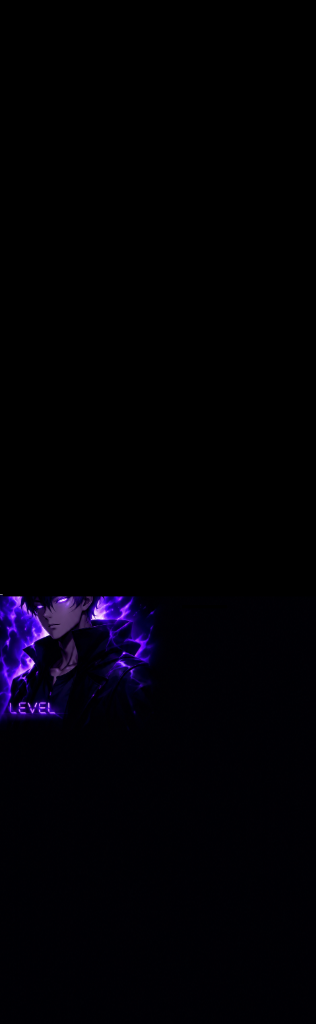
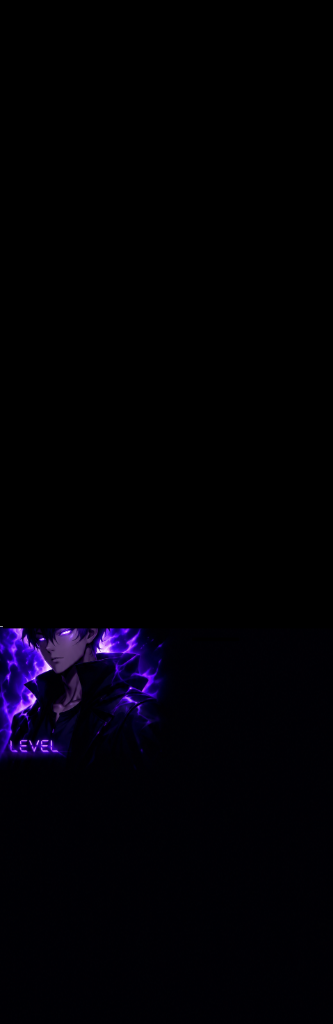
Sidebar bg update & remove small hunter photo, new Jarvis AI bg, Level 26 0.9cm shift & dark blue circular bar

Changed region(s): [[0.0, 0.5625, 0.5127, 0.75]]

diff --git a/frontend/public/sw.js b/frontend/public/sw.js
@@ -1,1 +1,1 @@
-if(!self.define){let e,a={};const c=(c,s)=>(c=new URL(c+".js",s).href,a[c]||new Promise(a=>{if("document"in self){const e=document.createElement("script");e.src=c,e.onload=a,document.head.appendChild(e)}else e=c,importScripts(c),a()}).then(()=>{let e=a[c];if(!e)throw new Error(`Module ${c} didn’t register its module`);return e}));self.define=(s,i)=>{const n=e||("document"in self?document.currentScript.src:"")||location.href;if(a[n])return;let t={};const r=e=>c(e,n),d={module:{uri:n},exports:t,require:r};a[n]=Promise.all(s.map(e=>d[e]||r(e))).then(e=>(i(...e),t))}}define(["./workbox-4754cb34"],function(e){"use strict";importScripts(),self.skipWaiting(),e.clientsClaim(),e.precacheAndRoute([{url:"/_next/app-build-manifest.json",revision:"79407e35d70fcbe2766703061dbdac23"},{url:"/_next/static/chunks/117-6eaefb15f41efda2.js",revision:"zPxRcZH9vEHwKE0aQicTF"},{url:"/_next/static/chunks/161-404ec8659131fbe1.js",revision:"zPxRcZH9vEHwKE0aQicTF"},{url:"/_next/static/chunks/222-80c941b602c6c767.js",revision:"zPxRcZH9vEHwKE0aQicTF"},{url:"/_next/static/chunks/259-1b7b7c8a627955e5.js",revision:"zPxRcZH9vEHwKE0aQicTF"},{url:"/_next/static/chunks/556-aa420836837e218e.js",revision:"zPxRcZH9vEHwKE0aQicTF"},{url:"/_next/static/chunks/590-50b0998170771c32.js",revision:"zPxRcZH9vEHwKE0aQicTF"},{url:"/_next/static/chunks/609-67dad4ef162ab78f.js",revision:"zPxRcZH9vEHwKE0aQicTF"},{url:"/_next/static/chunks/685-00dc3b1ddec12150.js",revision:"zPxRcZH9vEHwKE0aQicTF"},{url:"/_next/static/chunks/69806262-f3310f404136445d.js",revision:"zPxRcZH9vEHwKE0aQicTF"},{url:"/_next/static/chunks/847-bcd5b17004309540.js",revision:"zPxRcZH9vEHwKE0aQicTF"},{url:"/_next/static/chunks/922-f6b7f1c74a3700c3.js",revision:"zPxRcZH9vEHwKE0aQicTF"},{url:"/_next/static/chunks/95-37978faa49e2d0eb.js",revision:"zPxRcZH9vEHwKE0aQicTF"},{url:"/_next/static/chunks/972-a5fd2ff66a5a41f1.js",revision:"zPxRcZH9vEHwKE0aQicTF"},{url:"/_next/static/chunks/app/(app)/achievements/page-dda38d3cd8482c57.js",revision:"zPxRcZH9vEHwKE0aQicTF"},{url:"/_next/static/chunks/app/(app)/bosses/page-9d928c80a2c79d35.js",revision:"zPxRcZH9vEHwKE0aQicTF"},{url:"/_next/static/chunks/app/(app)/calendar/page-101ab7f6c62cabb0.js",revision:"zPxRcZH9vEHwKE0aQicTF"},{url:"/_next/static/chunks/app/(app)/character/page-dfc11f578a29d1d0.js",revision:"zPxRcZH9vEHwKE0aQicTF"},{url:"/_next/static/chunks/app/(app)/dashboard/page-4d445d5cb618b271.js",revision:"zPxRcZH9vEHwKE0aQicTF"},{url:"/_next/static/chunks/app/(app)/inventory/page-832cbb0276802e4b.js",revision:"zPxRcZH9vEHwKE0aQicTF"},{url:"/_next/static/chunks/app/(app)/layout-4916cc8b0835f1ed.js",revision:"zPxRcZH9vEHwKE0aQicTF"},{url:"/_next/static/chunks/app/(app)/leaderboard/page-5dc13f6b901dbad3.js",revision:"zPxRcZH9vEHwKE0aQicTF"},{url:"/_next/static/chunks/app/(app)/quests/page-a079af3c097b3c39.js",revision:"zPxRcZH9vEHwKE0aQicTF"},{url:"/_next/static/chunks/app/(app)/settings/page-16df79275a90fe75.js",revision:"zPxRcZH9vEHwKE0aQicTF"},{url:"/_next/static/chunks/app/(app)/social/page-e22081380a73c9b9.js",revision:"zPxRcZH9vEHwKE0aQicTF"},{url:"/_next/static/chunks/app/(app)/statistics/page-f1d5fada93bd8958.js",revision:"zPxRcZH9vEHwKE0aQicTF"},{url:"/_next/static/chunks/app/(app)/story/page-7c3b57a3b38ef37f.js",revision:"zPxRcZH9vEHwKE0aQicTF"},{url:"/_next/static/chunks/app/(auth)/onboarding/page-e2587b5847bffce2.js",revision:"zPxRcZH9vEHwKE0aQicTF"},{url:"/_next/static/chunks/app/(auth)/sign-in/page-6834d9283c96885c.js",revision:"zPxRcZH9vEHwKE0aQicTF"},{url:"/_next/static/chunks/app/_not-found/page-5ef3c9f8d8d1fe9b.js",revision:"zPxRcZH9vEHwKE0aQicTF"},{url:"/_next/static/chunks/app/error-6a6e6797ee8d3c98.js",revision:"zPxRcZH9vEHwKE0aQicTF"},{url:"/_next/static/chunks/app/layout-12bd3d1a2fa5866b.js",revision:"zPxRcZH9vEHwKE0aQicTF"},{url:"/_next/static/chunks/app/loading-cc8d0ea91e4ead9b.js",revision:"zPxRcZH9vEHwKE0aQicTF"},{url:"/_next/static/chunks/app/not-found-98e5678f1a19b8b1.js",revision:"zPxRcZH9vEHwKE0aQicTF"},{url:"/_next/static/chunks/app/page-87e1eb2ae3170d7a.js",revision:"zPxRcZH9vEHwKE0aQicTF"},{url:"/_next/static/chunks/fd9d1056-d5767489a2977be3.js",revision:"zPxRcZH9vEHwKE0aQicTF"},{url:"/_next/static/chunks/framework-00a8ba1a63cfdc9e.js",revision:"zPxRcZH9vEHwKE0aQicTF"},{url:"/_next/static/chunks/main-8dab85b19320e72d.js",revision:"zPxRcZH9vEHwKE0aQicTF"},{url:"/_next/static/chunks/main-app-ee85dcf41e332b4b.js",revision:"zPxRcZH9vEHwKE0aQicTF"},{url:"/_next/static/chunks/pages/_app-15e2daefa259f0b5.js",revision:"zPxRcZH9vEHwKE0aQicTF"},{url:"/_next/static/chunks/pages/_error-28b803cb2479b966.js",revision:"zPxRcZH9vEHwKE0aQicTF"},{url:"/_next/static/chunks/polyfills-42372ed130431b0a.js",revision:"846118c33b2c0e922d7b3a7676f81f6f"},{url:"/_next/static/chunks/webpack-9e3ef463ba7a7de9.js",revision:"zPxRcZH9vEHwKE0aQicTF"},{url:"/_next/static/css/444fbbf96e36425c.css",revision:"444fbbf96e36425c"},{url:"/_next/static/css/6b91e6bb0ef020a0.css",revision:"6b91e6bb0ef020a0"},{url:"/_next/static/media/19cfc7226ec3afaa-s.woff2",revision:"9dda5cfc9a46f256d0e131bb535e46f8"},{url:"/_next/static/media/21350d82a1f187e9-s.woff2",revision:"4e2553027f1d60eff32898367dd4d541"},{url:"/_next/static/media/36966cca54120369-s.p.woff2",revision:"25ea4a783c12103f175f5b157b7d96aa"},{url:"/_next/static/media/558ca1a6aa3cb55e-s.p.woff2",revision:"570751c5f8b418972c1976160ba6ed85"},{url:"/_next/static/media/64d784ea54a4acde-s.woff2",revision:"8a5b33d747f0cfaac631ad00bd5bcba2"},{url:"/_next/static/media/6d831b18ae5b01dc-s.woff2",revision:"e6155c5cfacf3867c500daf0ebcba222"},{url:"/_next/static/media/8e9860b6e62d6359-s.woff2",revision:"01ba6c2a184b8cba08b0d57167664d75"},{url:"/_next/static/media/ac0e76ddaeeb7981-s.woff2",revision:"6465b62dd12646a816e0d80f024ab07f"},{url:"/_next/static/media/b7387a63dd068245-s.woff2",revision:"dea099b7d5a5ea45bd4367f8aeff62ab"},{url:"/_next/static/media/ba9851c3c22cd980-s.woff2",revision:"9e494903d6b0ffec1a1e14d34427d44d"},{url:"/_next/static/media/c5fe6dc8356a8c31-s.woff2",revision:"027a89e9ab733a145db70f09b8a18b42"},{url:"/_next/static/media/df0a9ae256c0569c-s.woff2",revision:"d54db44de5ccb18886ece2fda72bdfe0"},{url:"/_next/static/media/e1aab0933260df4d-s.woff2",revision:"207f8e9f3761dbd724063a177d906a99"},{url:"/_next/static/media/e4af272ccee01ff0-s.p.woff2",revision:"65850a373e258f1c897a2b3d75eb74de"},{url:"/_next/static/media/edc640959b0c7826-s.woff2",revision:"5508edf7c10fe677025b8c88a2578acb"},{url:"/_next/static/media/ff71da380fbe67dd-s.woff2",revision:"60d32697500d4779da3725134067ad31"},{url:"/_next/static/zPxRcZH9vEHwKE0aQicTF/_buildManifest.js",revision:"7fd265f8ebcac270b73fccb4c67fdf63"},{url:"/_next/static/zPxRcZH9vEHwKE0aQicTF/_ssgManifest.js",revision:"b6652df95db52feb4daf4eca35380933"},{url:"/custom_bg/arc_projection_bg.png",revision:"a63acbe3356e0503bd69df00756bf9c4"},{url:"/custom_bg/ascend_core_bg.png",revision:"476dc52c27fd23f4e1f1472da39b730f"},{url:"/custom_bg/ascend_core_full_bg.png",revision:"75764ebd3b334bb6585a5406d9b0147c"},{url:"/custom_bg/daily_quests_bg.png",revision:"f03894cbfb5a406e2e87c7603b49a83c"},{url:"/custom_bg/daily_quests_ref.png",revision:"29f8b437c4b7e6bfbf96eb9156f913cb"},{url:"/custom_bg/hero_banner_bg.png",revision:"1ca7047a49089bb41dee871327ce2d1a"},{url:"/custom_bg/hunter_sidebar_portrait.png",revision:"34b6ff53d1edc44da6c4c1278069f09a"},{url:"/custom_bg/jarvis_bg.png",revision:"d55267541e45fd93f07389a3e92c5485"},{url:"/custom_bg/jarvis_holo_header.png",revision:"19f1dc1ec7735f0e60a23a962c072835"},{url:"/custom_bg/kpi_keys_bg.png",revision:"dff02dd725a725e08cd956ba3609d209"},{url:"/custom_bg/sidebar_bg.png",revision:"07a6835b0830f306f507d2ee1d47a5a3"},{url:"/custom_bg/sys_overview_ref.png",revision:"12cd1824dc4e5de66ab18e283a460f0d"},{url:"/dragon_hunter_artwork.jpg",revision:"0d820dd407a781807b95fae2d1f29703"},{url:"/dragon_hunter_portrait.png",revision:"3ccbe770f944ae36926aed1e1afb953e"},{url:"/favicon.ico",revision:"cfd22b25f707361da1049b9847d0f5e7"},{url:"/flaming_level_ring.png",revision:"2c9bef29a880876adb81e96755c1857d"},{url:"/flaming_level_ring_bg.png",revision:"e4bd42dbba2ead00f00e62ef08b68868"},{url:"/flaming_level_ring_centered.png",revision:"6ce1ee8d37dfd1d62fef58688d7b0593"},{url:"/hero_artwork.png",revision:"30af230aab992c9c832d56eda7951610"},{url:"/hero_banner_background.png",revision:"c1865731e193b0800e642ad8e251093c"},{url:"/hero_banner_bg.png",revision:"c30916e212780c99cd8ddce4f93ededa"},{url:"/hero_banner_bg_clean.png",revision:"c30916e212780c99cd8ddce4f93ededa"},{url:"/hero_banner_bg_final.png",revision:"686035acd1f839135579c315725a2e3f"},{url:"/hero_banner_bg_perfect.png",revision:"54044b6d0667ae3ec3375df29f4128a8"},{url:"/hero_banner_clean.jpg",revision:"77e65b53f2b7d959818cd29a962680f4"},{url:"/hero_banner_full.png",revision:"0cc2d58f49eb4df08043e8f9077fdcec"},{url:"/hero_banner_full_bg.png",revision:"c30916e212780c99cd8ddce4f93ededa"},{url:"/hero_banner_textfree_final.png",revision:"27bfdfbc97073f7df14e8f10937fd4cf"},{url:"/hero_dragon_hunter_art.png",revision:"5d52b23ccb3d57fd8bdc90d68facdd99"},{url:"/hero_level_flame_vortex.png",revision:"4b19baeaad3f9b4ae7003ed779f368f7"},{url:"/hero_textfree_bg.png",revision:"f16b0c4ffd2df44ef2e9929842576492"},{url:"/hunter_avatar.jpg",revision:"d724591916c72ecd56398927dc8f0505"},{url:"/icons/icon-192.png",revision:"3e3c521310685c6786800043030e60c2"},{url:"/icons/icon-512.png",revision:"5cf6f11bad0833461daee75a253bf055"},{url:"/icons/icon-maskable-512.png",revision:"e5fc623081e064430f4359fa47ccd337"},{url:"/level_flame_ring.png",revision:"7a7bb03a15ec799db961089a00959d73"},{url:"/level_flame_vortex.jpg",revision:"7119dd0b9d72cba4794b343e5c385249"},{url:"/manifest.json",revision:"ebc5fe21a6885886fd45809beee0f90b"},{url:"/shadow_dragon_hunter.png",revision:"1db4fa97847385ae75ef9cb2388aaa15"}],{ignoreURLParametersMatching:[]}),e.cleanupOutdatedCaches(),e.registerRoute("/",new e.NetworkFirst({cacheName:"start-url",plugins:[{cacheWillUpdate:async({request:e,response:a,event:c,state:s})=>a&&"opaqueredirect"===a.type?new Response(a.body,{status:200,statusText:"OK",headers:a.headers}):a}]}),"GET"),e.registerRoute(/^https:\/\/fonts\.(?:gstatic)\.com\/.*/i,new e.CacheFirst({cacheName:"google-fonts-webfonts",plugins:[new e.ExpirationPlugin({maxEntries:4,maxAgeSeconds:31536e3})]}),"GET"),e.registerRoute(/^https:\/\/fonts\.(?:googleapis)\.com\/.*/i,new e.StaleWhileRevalidate({cacheName:"google-fonts-stylesheets",plugins:[new e.ExpirationPlugin({maxEntries:4,maxAgeSeconds:604800})]}),"GET"),e.registerRoute(/\.(?:eot|otf|ttc|ttf|woff|woff2|font.css)$/i,new e.StaleWhileRevalidate({cacheName:"static-font-assets",plugins:[new e.ExpirationPlugin({maxEntries:4,maxAgeSeconds:604800})]}),"GET"),e.registerRoute(/\.(?:jpg|jpeg|gif|png|svg|ico|webp)$/i,new e.StaleWhileRevalidate({cacheName:"static-image-assets",plugins:[new e.ExpirationPlugin({maxEntries:64,maxAgeSeconds:86400})]}),"GET"),e.registerRoute(/\/_next\/image\?url=.+$/i,new e.StaleWhileRevalidate({cacheName:"next-image",plugins:[new e.ExpirationPlugin({maxEntries:64,maxAgeSeconds:86400})]}),"GET"),e.registerRoute(/\.(?:mp3|wav|ogg)$/i,new e.CacheFirst({cacheName:"static-audio-assets",plugins:[new e.RangeRequestsPlugin,new e.ExpirationPlugin({maxEntries:32,maxAgeSeconds:86400})]}),"GET"),e.registerRoute(/\.(?:mp4)$/i,new e.CacheFirst({cacheName:"static-video-assets",plugins:[new e.RangeRequestsPlugin,new e.ExpirationPlugin({maxEntries:32,maxAgeSeconds:86400})]}),"GET"),e.registerRoute(/\.(?:js)$/i,new e.StaleWhileRevalidate({cacheName:"static-js-assets",plugins:[new e.ExpirationPlugin({maxEntries:32,maxAgeSeconds:86400})]}),"GET"),e.registerRoute(/\.(?:css|less)$/i,new e.StaleWhileRevalidate({cacheName:"static-style-assets",plugins:[new e.ExpirationPlugin({maxEntries:32,maxAgeSeconds:86400})]}),"GET"),e.registerRoute(/\/_next\/data\/.+\/.+\.json$/i,new e.StaleWhileRevalidate({cacheName:"next-data",plugins:[new e.ExpirationPlugin({maxEntries:32,maxAgeSeconds:86400})]}),"GET"),e.registerRoute(/\.(?:json|xml|csv)$/i,new e.NetworkFirst({cacheName:"static-data-assets",plugins:[new e.ExpirationPlugin({maxEntries:32,maxAgeSeconds:86400})]}),"GET"),e.registerRoute(({url:e})=>{if(!(self.origin===e.origin))return!1;const a=e.pathname;return!a.startsWith("/api/auth/")&&!!a.startsWith("/api/")},new e.NetworkFirst({cacheName:"apis",networkTimeoutSeconds:10,plugins:[new e.ExpirationPlugin({maxEntries:16,maxAgeSeconds:86400})]}),"GET"),e.registerRoute(({url:e})=>{if(!(self.origin===e.origin))return!1;return!e.pathname.startsWith("/api/")},new e.NetworkFirst({cacheName:"others",networkTimeoutSeconds:10,plugins:[new e.ExpirationPlugin({maxEntries:32,maxAgeSeconds:86400})]}),"GET"),e.registerRoute(({url:e})=>!(self.origin===e.origin),new e.NetworkFirst({cacheName:"cross-origin",networkTimeoutSeconds:10,plugins:[new e.ExpirationPlugin({maxEntries:32,maxAgeSeconds:3600})]}),"GET")});
+if(!self.define){let e,i={};const a=(a,s)=>(a=new URL(a+".js",s).href,i[a]||new Promise(i=>{if("document"in self){const e=document.createElement("script");e.src=a,e.onload=i,document.head.appendChild(e)}else e=a,importScripts(a),i()}).then(()=>{let e=i[a];if(!e)throw new Error(`Module ${a} didn’t register its module`);return e}));self.define=(s,n)=>{const c=e||("document"in self?document.currentScript.src:"")||location.href;if(i[c])return;let r={};const t=e=>a(e,c),d={module:{uri:c},exports:r,require:t};i[c]=Promise.all(s.map(e=>d[e]||t(e))).then(e=>(n(...e),r))}}define(["./workbox-4754cb34"],function(e){"use strict";importScripts(),self.skipWaiting(),e.clientsClaim(),e.precacheAndRoute([{url:"/_next/app-build-manifest.json",revision:"a4b5fe94b4ed35f79327a6c48d2b5700"},{url:"/_next/static/ITfirCIu7Z4iKzpx22dAQ/_buildManifest.js",revision:"7fd265f8ebcac270b73fccb4c67fdf63"},{url:"/_next/static/ITfirCIu7Z4iKzpx22dAQ/_ssgManifest.js",revision:"b6652df95db52feb4daf4eca35380933"},{url:"/_next/static/chunks/117-6eaefb15f41efda2.js",revision:"ITfirCIu7Z4iKzpx22dAQ"},{url:"/_next/static/chunks/161-404ec8659131fbe1.js",revision:"ITfirCIu7Z4iKzpx22dAQ"},{url:"/_next/static/chunks/222-80c941b602c6c767.js",revision:"ITfirCIu7Z4iKzpx22dAQ"},{url:"/_next/static/chunks/259-1b7b7c8a627955e5.js",revision:"ITfirCIu7Z4iKzpx22dAQ"},{url:"/_next/static/chunks/556-aa420836837e218e.js",revision:"ITfirCIu7Z4iKzpx22dAQ"},{url:"/_next/static/chunks/590-50b0998170771c32.js",revision:"ITfirCIu7Z4iKzpx22dAQ"},{url:"/_next/static/chunks/609-67dad4ef162ab78f.js",revision:"ITfirCIu7Z4iKzpx22dAQ"},{url:"/_next/static/chunks/685-00dc3b1ddec12150.js",revision:"ITfirCIu7Z4iKzpx22dAQ"},{url:"/_next/static/chunks/69806262-f3310f404136445d.js",revision:"ITfirCIu7Z4iKzpx22dAQ"},{url:"/_next/static/chunks/847-bcd5b17004309540.js",revision:"ITfirCIu7Z4iKzpx22dAQ"},{url:"/_next/static/chunks/922-f6b7f1c74a3700c3.js",revision:"ITfirCIu7Z4iKzpx22dAQ"},{url:"/_next/static/chunks/95-37978faa49e2d0eb.js",revision:"ITfirCIu7Z4iKzpx22dAQ"},{url:"/_next/static/chunks/972-a5fd2ff66a5a41f1.js",revision:"ITfirCIu7Z4iKzpx22dAQ"},{url:"/_next/static/chunks/app/(app)/achievements/page-dda38d3cd8482c57.js",revision:"ITfirCIu7Z4iKzpx22dAQ"},{url:"/_next/static/chunks/app/(app)/bosses/page-9d928c80a2c79d35.js",revision:"ITfirCIu7Z4iKzpx22dAQ"},{url:"/_next/static/chunks/app/(app)/calendar/page-101ab7f6c62cabb0.js",revision:"ITfirCIu7Z4iKzpx22dAQ"},{url:"/_next/static/chunks/app/(app)/character/page-dfc11f578a29d1d0.js",revision:"ITfirCIu7Z4iKzpx22dAQ"},{url:"/_next/static/chunks/app/(app)/dashboard/page-16eb09712af5930a.js",revision:"ITfirCIu7Z4iKzpx22dAQ"},{url:"/_next/static/chunks/app/(app)/inventory/page-832cbb0276802e4b.js",revision:"ITfirCIu7Z4iKzpx22dAQ"},{url:"/_next/static/chunks/app/(app)/layout-2a922dd1145fa079.js",revision:"ITfirCIu7Z4iKzpx22dAQ"},{url:"/_next/static/chunks/app/(app)/leaderboard/page-5dc13f6b901dbad3.js",revision:"ITfirCIu7Z4iKzpx22dAQ"},{url:"/_next/static/chunks/app/(app)/quests/page-a079af3c097b3c39.js",revision:"ITfirCIu7Z4iKzpx22dAQ"},{url:"/_next/static/chunks/app/(app)/settings/page-16df79275a90fe75.js",revision:"ITfirCIu7Z4iKzpx22dAQ"},{url:"/_next/static/chunks/app/(app)/social/page-e22081380a73c9b9.js",revision:"ITfirCIu7Z4iKzpx22dAQ"},{url:"/_next/static/chunks/app/(app)/statistics/page-f1d5fada93bd8958.js",revision:"ITfirCIu7Z4iKzpx22dAQ"},{url:"/_next/static/chunks/app/(app)/story/page-7c3b57a3b38ef37f.js",revision:"ITfirCIu7Z4iKzpx22dAQ"},{url:"/_next/static/chunks/app/(auth)/onboarding/page-e2587b5847bffce2.js",revision:"ITfirCIu7Z4iKzpx22dAQ"},{url:"/_next/static/chunks/app/(auth)/sign-in/page-6834d9283c96885c.js",revision:"ITfirCIu7Z4iKzpx22dAQ"},{url:"/_next/static/chunks/app/_not-found/page-5ef3c9f8d8d1fe9b.js",revision:"ITfirCIu7Z4iKzpx22dAQ"},{url:"/_next/static/chunks/app/error-6a6e6797ee8d3c98.js",revision:"ITfirCIu7Z4iKzpx22dAQ"},{url:"/_next/static/chunks/app/layout-12bd3d1a2fa5866b.js",revision:"ITfirCIu7Z4iKzpx22dAQ"},{url:"/_next/static/chunks/app/loading-cc8d0ea91e4ead9b.js",revision:"ITfirCIu7Z4iKzpx22dAQ"},{url:"/_next/static/chunks/app/not-found-98e5678f1a19b8b1.js",revision:"ITfirCIu7Z4iKzpx22dAQ"},{url:"/_next/static/chunks/app/page-87e1eb2ae3170d7a.js",revision:"ITfirCIu7Z4iKzpx22dAQ"},{url:"/_next/static/chunks/fd9d1056-d5767489a2977be3.js",revision:"ITfirCIu7Z4iKzpx22dAQ"},{url:"/_next/static/chunks/framework-00a8ba1a63cfdc9e.js",revision:"ITfirCIu7Z4iKzpx22dAQ"},{url:"/_next/static/chunks/main-8dab85b19320e72d.js",revision:"ITfirCIu7Z4iKzpx22dAQ"},{url:"/_next/static/chunks/main-app-ee85dcf41e332b4b.js",revision:"ITfirCIu7Z4iKzpx22dAQ"},{url:"/_next/static/chunks/pages/_app-15e2daefa259f0b5.js",revision:"ITfirCIu7Z4iKzpx22dAQ"},{url:"/_next/static/chunks/pages/_error-28b803cb2479b966.js",revision:"ITfirCIu7Z4iKzpx22dAQ"},{url:"/_next/static/chunks/polyfills-42372ed130431b0a.js",revision:"846118c33b2c0e922d7b3a7676f81f6f"},{url:"/_next/static/chunks/webpack-9e3ef463ba7a7de9.js",revision:"ITfirCIu7Z4iKzpx22dAQ"},{url:"/_next/static/css/444fbbf96e36425c.css",revision:"444fbbf96e36425c"},{url:"/_next/static/css/5532426a1758804f.css",revision:"5532426a1758804f"},{url:"/_next/static/media/19cfc7226ec3afaa-s.woff2",revision:"9dda5cfc9a46f256d0e131bb535e46f8"},{url:"/_next/static/media/21350d82a1f187e9-s.woff2",revision:"4e2553027f1d60eff32898367dd4d541"},{url:"/_next/static/media/36966cca54120369-s.p.woff2",revision:"25ea4a783c12103f175f5b157b7d96aa"},{url:"/_next/static/media/558ca1a6aa3cb55e-s.p.woff2",revision:"570751c5f8b418972c1976160ba6ed85"},{url:"/_next/static/media/64d784ea54a4acde-s.woff2",revision:"8a5b33d747f0cfaac631ad00bd5bcba2"},{url:"/_next/static/media/6d831b18ae5b01dc-s.woff2",revision:"e6155c5cfacf3867c500daf0ebcba222"},{url:"/_next/static/media/8e9860b6e62d6359-s.woff2",revision:"01ba6c2a184b8cba08b0d57167664d75"},{url:"/_next/static/media/ac0e76ddaeeb7981-s.woff2",revision:"6465b62dd12646a816e0d80f024ab07f"},{url:"/_next/static/media/b7387a63dd068245-s.woff2",revision:"dea099b7d5a5ea45bd4367f8aeff62ab"},{url:"/_next/static/media/ba9851c3c22cd980-s.woff2",revision:"9e494903d6b0ffec1a1e14d34427d44d"},{url:"/_next/static/media/c5fe6dc8356a8c31-s.woff2",revision:"027a89e9ab733a145db70f09b8a18b42"},{url:"/_next/static/media/df0a9ae256c0569c-s.woff2",revision:"d54db44de5ccb18886ece2fda72bdfe0"},{url:"/_next/static/media/e1aab0933260df4d-s.woff2",revision:"207f8e9f3761dbd724063a177d906a99"},{url:"/_next/static/media/e4af272ccee01ff0-s.p.woff2",revision:"65850a373e258f1c897a2b3d75eb74de"},{url:"/_next/static/media/edc640959b0c7826-s.woff2",revision:"5508edf7c10fe677025b8c88a2578acb"},{url:"/_next/static/media/ff71da380fbe67dd-s.woff2",revision:"60d32697500d4779da3725134067ad31"},{url:"/custom_bg/arc_projection_bg.png",revision:"a63acbe3356e0503bd69df00756bf9c4"},{url:"/custom_bg/ascend_core_bg.png",revision:"476dc52c27fd23f4e1f1472da39b730f"},{url:"/custom_bg/ascend_core_full_bg.png",revision:"75764ebd3b334bb6585a5406d9b0147c"},{url:"/custom_bg/daily_quests_bg.png",revision:"f03894cbfb5a406e2e87c7603b49a83c"},{url:"/custom_bg/daily_quests_ref.png",revision:"29f8b437c4b7e6bfbf96eb9156f913cb"},{url:"/custom_bg/hero_banner_bg.png",revision:"1ca7047a49089bb41dee871327ce2d1a"},{url:"/custom_bg/hunter_sidebar_portrait.png",revision:"34b6ff53d1edc44da6c4c1278069f09a"},{url:"/custom_bg/jarvis_bg.png",revision:"95ed9bb7582d047985f1245b3662fbab"},{url:"/custom_bg/jarvis_holo_header.png",revision:"19f1dc1ec7735f0e60a23a962c072835"},{url:"/custom_bg/kpi_keys_bg.png",revision:"dff02dd725a725e08cd956ba3609d209"},{url:"/custom_bg/sidebar_bg.png",revision:"fa507c0edf13149529ebd7de9abb1846"},{url:"/custom_bg/sys_overview_ref.png",revision:"12cd1824dc4e5de66ab18e283a460f0d"},{url:"/dragon_hunter_artwork.jpg",revision:"0d820dd407a781807b95fae2d1f29703"},{url:"/dragon_hunter_portrait.png",revision:"3ccbe770f944ae36926aed1e1afb953e"},{url:"/favicon.ico",revision:"cfd22b25f707361da1049b9847d0f5e7"},{url:"/flaming_level_ring.png",revision:"2c9bef29a880876adb81e96755c1857d"},{url:"/flaming_level_ring_bg.png",revision:"e4bd42dbba2ead00f00e62ef08b68868"},{url:"/flaming_level_ring_centered.png",revision:"6ce1ee8d37dfd1d62fef58688d7b0593"},{url:"/hero_artwork.png",revision:"30af230aab992c9c832d56eda7951610"},{url:"/hero_banner_background.png",revision:"c1865731e193b0800e642ad8e251093c"},{url:"/hero_banner_bg.png",revision:"c30916e212780c99cd8ddce4f93ededa"},{url:"/hero_banner_bg_clean.png",revision:"c30916e212780c99cd8ddce4f93ededa"},{url:"/hero_banner_bg_final.png",revision:"686035acd1f839135579c315725a2e3f"},{url:"/hero_banner_bg_perfect.png",revision:"54044b6d0667ae3ec3375df29f4128a8"},{url:"/hero_banner_clean.jpg",revision:"77e65b53f2b7d959818cd29a962680f4"},{url:"/hero_banner_full.png",revision:"0cc2d58f49eb4df08043e8f9077fdcec"},{url:"/hero_banner_full_bg.png",revision:"c30916e212780c99cd8ddce4f93ededa"},{url:"/hero_banner_textfree_final.png",revision:"27bfdfbc97073f7df14e8f10937fd4cf"},{url:"/hero_dragon_hunter_art.png",revision:"5d52b23ccb3d57fd8bdc90d68facdd99"},{url:"/hero_level_flame_vortex.png",revision:"4b19baeaad3f9b4ae7003ed779f368f7"},{url:"/hero_textfree_bg.png",revision:"f16b0c4ffd2df44ef2e9929842576492"},{url:"/hunter_avatar.jpg",revision:"d724591916c72ecd56398927dc8f0505"},{url:"/icons/icon-192.png",revision:"3e3c521310685c6786800043030e60c2"},{url:"/icons/icon-512.png",revision:"5cf6f11bad0833461daee75a253bf055"},{url:"/icons/icon-maskable-512.png",revision:"e5fc623081e064430f4359fa47ccd337"},{url:"/level_flame_ring.png",revision:"7a7bb03a15ec799db961089a00959d73"},{url:"/level_flame_vortex.jpg",revision:"7119dd0b9d72cba4794b343e5c385249"},{url:"/manifest.json",revision:"ebc5fe21a6885886fd45809beee0f90b"},{url:"/shadow_dragon_hunter.png",revision:"1db4fa97847385ae75ef9cb2388aaa15"}],{ignoreURLParametersMatching:[]}),e.cleanupOutdatedCaches(),e.registerRoute("/",new e.NetworkFirst({cacheName:"start-url",plugins:[{cacheWillUpdate:async({request:e,response:i,event:a,state:s})=>i&&"opaqueredirect"===i.type?new Response(i.body,{status:200,statusText:"OK",headers:i.headers}):i}]}),"GET"),e.registerRoute(/^https:\/\/fonts\.(?:gstatic)\.com\/.*/i,new e.CacheFirst({cacheName:"google-fonts-webfonts",plugins:[new e.ExpirationPlugin({maxEntries:4,maxAgeSeconds:31536e3})]}),"GET"),e.registerRoute(/^https:\/\/fonts\.(?:googleapis)\.com\/.*/i,new e.StaleWhileRevalidate({cacheName:"google-fonts-stylesheets",plugins:[new e.ExpirationPlugin({maxEntries:4,maxAgeSeconds:604800})]}),"GET"),e.registerRoute(/\.(?:eot|otf|ttc|ttf|woff|woff2|font.css)$/i,new e.StaleWhileRevalidate({cacheName:"static-font-assets",plugins:[new e.ExpirationPlugin({maxEntries:4,maxAgeSeconds:604800})]}),"GET"),e.registerRoute(/\.(?:jpg|jpeg|gif|png|svg|ico|webp)$/i,new e.StaleWhileRevalidate({cacheName:"static-image-assets",plugins:[new e.ExpirationPlugin({maxEntries:64,maxAgeSeconds:86400})]}),"GET"),e.registerRoute(/\/_next\/image\?url=.+$/i,new e.StaleWhileRevalidate({cacheName:"next-image",plugins:[new e.ExpirationPlugin({maxEntries:64,maxAgeSeconds:86400})]}),"GET"),e.registerRoute(/\.(?:mp3|wav|ogg)$/i,new e.CacheFirst({cacheName:"static-audio-assets",plugins:[new e.RangeRequestsPlugin,new e.ExpirationPlugin({maxEntries:32,maxAgeSeconds:86400})]}),"GET"),e.registerRoute(/\.(?:mp4)$/i,new e.CacheFirst({cacheName:"static-video-assets",plugins:[new e.RangeRequestsPlugin,new e.ExpirationPlugin({maxEntries:32,maxAgeSeconds:86400})]}),"GET"),e.registerRoute(/\.(?:js)$/i,new e.StaleWhileRevalidate({cacheName:"static-js-assets",plugins:[new e.ExpirationPlugin({maxEntries:32,maxAgeSeconds:86400})]}),"GET"),e.registerRoute(/\.(?:css|less)$/i,new e.StaleWhileRevalidate({cacheName:"static-style-assets",plugins:[new e.ExpirationPlugin({maxEntries:32,maxAgeSeconds:86400})]}),"GET"),e.registerRoute(/\/_next\/data\/.+\/.+\.json$/i,new e.StaleWhileRevalidate({cacheName:"next-data",plugins:[new e.ExpirationPlugin({maxEntries:32,maxAgeSeconds:86400})]}),"GET"),e.registerRoute(/\.(?:json|xml|csv)$/i,new e.NetworkFirst({cacheName:"static-data-assets",plugins:[new e.ExpirationPlugin({maxEntries:32,maxAgeSeconds:86400})]}),"GET"),e.registerRoute(({url:e})=>{if(!(self.origin===e.origin))return!1;const i=e.pathname;return!i.startsWith("/api/auth/")&&!!i.startsWith("/api/")},new e.NetworkFirst({cacheName:"apis",networkTimeoutSeconds:10,plugins:[new e.ExpirationPlugin({maxEntries:16,maxAgeSeconds:86400})]}),"GET"),e.registerRoute(({url:e})=>{if(!(self.origin===e.origin))return!1;return!e.pathname.startsWith("/api/")},new e.NetworkFirst({cacheName:"others",networkTimeoutSeconds:10,plugins:[new e.ExpirationPlugin({maxEntries:32,maxAgeSeconds:86400})]}),"GET"),e.registerRoute(({url:e})=>!(self.origin===e.origin),new e.NetworkFirst({cacheName:"cross-origin",networkTimeoutSeconds:10,plugins:[new e.ExpirationPlugin({maxEntries:32,maxAgeSeconds:3600})]}),"GET")});

diff --git a/frontend/src/features/dashboard/HeroBanner.tsx b/frontend/src/features/dashboard/HeroBanner.tsx
@@ -120,11 +120,25 @@ export function HeroBanner({ user, board }: HeroBannerProps) {
             </div>
           </div>
 
-          {/* Dynamic Level Indicator */}
+          {/* Dynamic Level Indicator with Dark Blue Circular Progress Bar */}
           <div
             className="relative flex flex-col items-center justify-center flex-shrink-0 self-center"
-            style={{ width: 84, height: 84, marginTop: "-8px", marginRight: "17px" }}
+            style={{ width: 84, height: 84, marginTop: "-8px", marginRight: "51px" }}
           >
+            {/* Dark Blue Circular Progress Bar matching Ascend Core */}
+            <svg className="absolute inset-0 w-full h-full pointer-events-none" viewBox="0 0 100 100" style={{ transform: "rotate(-90deg)" }}>
+              <circle cx="50" cy="50" r="38" stroke="rgba(38,20,223,0.2)" strokeWidth="3" fill="none" />
+              <circle
+                cx="50" cy="50" r="38"
+                stroke="#2614DF"
+                strokeWidth="3"
+                fill="none"
+                strokeLinecap="round"
+                strokeDasharray={`${((character.xp_progress_percent || 0) / 100) * 238.76} 238.76`}
+                style={{ filter: "drop-shadow(0 0 8px rgba(38,20,223,0.95))", transition: "stroke-dasharray 1s ease" }}
+              />
+            </svg>
+
             <div className="relative z-10 flex flex-col items-center justify-center text-center">
               <span className="font-mono text-[7px] uppercase tracking-widest text-arc-300 font-bold drop-shadow-[0_1px_2px_rgba(0,0,0,0.9)]">LEVEL</span>
               <span className="font-display text-2xl font-bold text-white text-glow-arc leading-none drop-shadow-[0_2px_4px_rgba(0,0,0,0.9)]">{character.level}</span>

diff --git a/frontend/src/components/layout/Sidebar.tsx b/frontend/src/components/layout/Sidebar.tsx
@@ -180,20 +180,10 @@ export function Sidebar() {
       {/* ── Character Summary Panel (Pinned at bottom, with Hunter Photo on Left & Right-aligned text) ── */}
       {user && character && (
         <div className="relative z-10 flex-shrink-0 bg-transparent p-3 space-y-2">
-          {/* Header Row: Hunter Man Photo on LEFT + Name/Status on RIGHT */}
+          {/* Header Row: Hunter Man in background on LEFT + Name/Status on RIGHT */}
           <div className="flex items-center justify-between gap-2">
-            {/* Hunter Artwork / Photo on the left directly beside the name */}
-            <div className="relative h-14 w-14 flex-shrink-0 overflow-hidden rounded-lg">
-              {/* eslint-disable-next-line @next/next/no-img-element */}
-              <img
-                src="/custom_bg/hunter_sidebar_portrait.png"
-                alt="Hunter Character"
-                className="h-full w-full object-contain"
-                onError={(e) => {
-                  (e.currentTarget as HTMLImageElement).src = user.avatar_url || "/hunter_avatar.jpg";
-                }}
-              />
-            </div>
+            {/* Left transparent slot allowing background hunter artwork to show through beside name */}
+            <div className="w-16 h-12 flex-shrink-0 pointer-events-none" />
 
             {/* Right-aligned Name, Status, Title, Rank */}
             <div className="flex-1 min-w-0 flex flex-col items-end text-right space-y-0.5">
